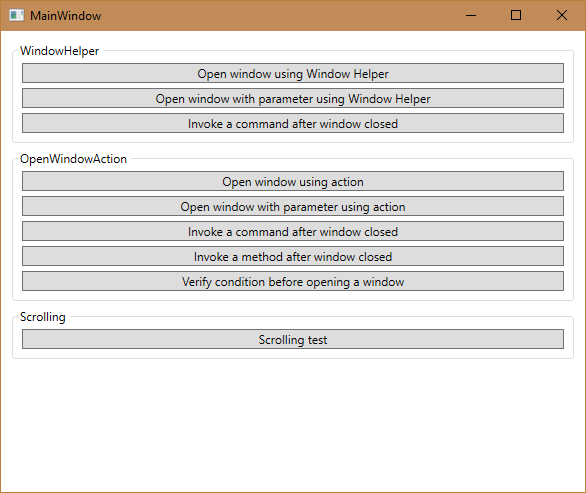
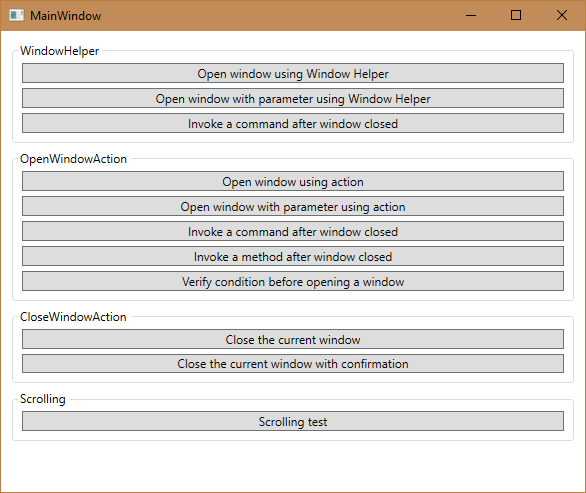
add actions

Changed region(s): [[0.0307, 0.6694, 0.9829, 0.7606], [0.0307, 0.7911, 0.9829, 0.8824], [0.0307, 0.6085, 0.215, 0.6694]]

diff --git a/Sample/WpfWindowToolkit.Test/Views/MainWindow.xaml b/Sample/WpfWindowToolkit.Test/Views/MainWindow.xaml
@@ -99,16 +99,27 @@
                     </Button>
                 </StackPanel>
             </GroupBox>
-            <GroupBox Margin="0,5,0,0" Header="Scrolling">
+            <GroupBox Margin="0,5,0,0" Header="CloseWindowAction">
                 <StackPanel Margin="5">
-                    <Button helpers:WindowHelper.OpenWindowType="{x:Type local:ScrollingTestWindow}" Content="Scrolling test" />
-                    <Button Margin="0,5,0,0" Content="ok">
+                    <Button Content="Close the current window">
                         <i:Interaction.Triggers>
                             <i:EventTrigger EventName="Click">
-                                <behaviors:CloseWindowAction ClosingCheckFunc="{Binding Abc}" />
+                                <behaviors:CloseWindowAction />
                             </i:EventTrigger>
                         </i:Interaction.Triggers>
                     </Button>
+                    <Button Margin="0,5,0,0" Content="Close the current window with confirmation">
+                        <i:Interaction.Triggers>
+                            <i:EventTrigger EventName="Click">
+                                <behaviors:CloseWindowAction ClosingCheckFunc="{Binding CheckBeforeCloseWindow}" />
+                            </i:EventTrigger>
+                        </i:Interaction.Triggers>
+                    </Button>
+                </StackPanel>
+            </GroupBox>
+            <GroupBox Margin="0,5,0,0" Header="Scrolling">
+                <StackPanel Margin="5">
+                    <Button helpers:WindowHelper.OpenWindowType="{x:Type local:ScrollingTestWindow}" Content="Scrolling test" />
                 </StackPanel>
             </GroupBox>
         </StackPanel>

diff --git a/Sample/WpfWindowToolkit.Test/ViewModels/MainViewModel.cs b/Sample/WpfWindowToolkit.Test/ViewModels/MainViewModel.cs
@@ -11,19 +11,18 @@ namespace WpfWindowToolkit.Test.ViewModels
         public MainViewModel()
         {
             WhenWindowClosedCommand = new RelayCommand(WhenWindowClosed);
-            TestAACommand = new RelayCommand<object>(TestAA);
             PreCheck = new Func<bool>(() =>
             {
                 return MessageBox.Show("really open a new window?", "Confirm", MessageBoxButton.OKCancel) == MessageBoxResult.OK;
             });
 
-            Abc = new Func<bool>(() =>
-             {
-                 return MessageBox.Show("really open a new window?", "Confirm", MessageBoxButton.OKCancel) == MessageBoxResult.OK;
-             });
+            CheckBeforeCloseWindow = new Func<bool>(() =>
+            {
+                return MessageBox.Show("really want to close the window?", "Confirm", MessageBoxButton.OKCancel) == MessageBoxResult.OK;
+            });
         }
 
-        public Func<bool> Abc { get; set; }
+        public Func<bool> CheckBeforeCloseWindow { get; set; }
 
         public Func<bool> PreCheck
 
@@ -32,26 +31,12 @@ namespace WpfWindowToolkit.Test.ViewModels
             set { Set(ref _preCheck, value); }
         }
 
+        public RelayCommand<object> TestAACommand { get; set; }
         public RelayCommand WhenWindowClosedCommand { get; set; }
 
         public void WhenWindowClosed()
         {
             MessageBox.Show("Window1 closed");
         }
-
-
-
-
-        public RelayCommand<object> TestAACommand { get; set; }
-
-        private void TestAA(object parameter)
-        {
-            var dialog = MessageBox.Show("dsfsdfsdfsdf", "dfsdf", MessageBoxButton.OKCancel, MessageBoxImage.Question);
-            if (dialog != MessageBoxResult.OK)
-            {
-
-            }
-        }
-
     }
 }

diff --git a/PraiseHim.Rejoice.WpfWindowToolkit/Behaviors/InvokeCommandAction.cs b/PraiseHim.Rejoice.WpfWindowToolkit/Behaviors/InvokeCommandAction.cs
@@ -1,0 +1,52 @@
+using System.Windows;
+using System.Windows.Input;
+using System.Windows.Interactivity;
+
+namespace PraiseHim.Rejoice.WpfWindowToolkit.Behaviors
+{
+    /// <summary>
+    /// An action to invoke a <see cref="ICommand"/>
+    /// </summary>
+    internal class InvokeCommandAction : TriggerAction<FrameworkElement>
+    {
+        public static readonly DependencyProperty CommandParameterProperty =
+            DependencyProperty.Register("CommandParameter", typeof(object), typeof(InvokeCommandAction), new PropertyMetadata(null));
+
+        public static readonly DependencyProperty CommandProperty =
+                    DependencyProperty.Register("Command", typeof(ICommand), typeof(InvokeCommandAction), new PropertyMetadata(null));
+
+        /// <summary>
+        /// Get or set the ICommand
+        /// </summary>
+        public ICommand Command
+        {
+            get { return (ICommand)GetValue(CommandProperty); }
+            set { SetValue(CommandProperty, value); }
+        }
+
+        /// <summary>
+        /// Get or set the parameter for the command
+        /// </summary>
+        public object CommandParameter
+        {
+            get { return (object)GetValue(CommandParameterProperty); }
+            set { SetValue(CommandParameterProperty, value); }
+        }
+
+        /// <summary>
+        /// Override Invoke method
+        /// </summary>
+        /// <param name="parameter"></param>
+        protected override void Invoke(object parameter)
+        {
+            if (CommandParameter != null)
+            {
+                Command?.Execute(CommandParameter);
+            }
+            else
+            {
+                Command?.Execute(parameter);
+            }
+        }
+    }
+}

diff --git a/PraiseHim.Rejoice.WpfWindowToolkit/Behaviors/CloseWindowAction.cs b/PraiseHim.Rejoice.WpfWindowToolkit/Behaviors/CloseWindowAction.cs
@@ -1,0 +1,47 @@
+using PraiseHim.Rejoice.WpfWindowToolkit.Extensions;
+using System;
+using System.Windows;
+using System.Windows.Interactivity;
+
+namespace PraiseHim.Rejoice.WpfWindowToolkit.Behaviors
+{
+    /// <summary>
+    /// An action to close a Window
+    /// </summary>
+    public class CloseWindowAction : TriggerAction<FrameworkElement>
+    {
+        /// <summary>
+        /// ClosingCheckFuncProperty
+        /// </summary>
+        public static readonly DependencyProperty ClosingCheckFuncProperty =
+            DependencyProperty.Register("ClosingCheckFunc", typeof(Func<bool>), typeof(CloseWindowAction), new PropertyMetadata(null));
+
+        /// <summary>
+        /// Get or set a function that returns a boolean value indicating whether the <see cref="Window"/> can be closed or not
+        /// </summary>
+        public Func<bool> ClosingCheckFunc
+        {
+            get { return (Func<bool>)GetValue(ClosingCheckFuncProperty); }
+            set { SetValue(ClosingCheckFuncProperty, value); }
+        }
+
+        /// <summary>
+        /// Override Invoke method
+        /// </summary>
+        /// <param name="parameter"></param>
+        protected override void Invoke(object parameter)
+        {
+            if (ClosingCheckFunc != null && !ClosingCheckFunc())
+            {
+                return;
+            }
+
+            var window = AssociatedObject.GetParent<Window>();
+
+            if (window != null)
+            {
+                window.Close();
+            }
+        }
+    }
+}

diff --git a/PraiseHim.Rejoice.WpfWindowToolkit/Helpers/WindowHelper.cs b/PraiseHim.Rejoice.WpfWindowToolkit/Helpers/WindowHelper.cs
@@ -67,7 +67,7 @@ namespace PraiseHim.Rejoice.WpfWindowToolkit.Helpers
         }
 
         /// <summary>
-        /// Set the parameter to be passed to the ViewModel of the new window. Notice, that view model need inherits <see cref="Base.ViewModelBaseData{T}"/>        
+        /// Set the parameter to be passed to the ViewModel of the new window. Notice, that view model need inherits <see cref="Base.ViewModelBaseData{T}"/>
         /// </summary>
         /// <param name="obj"></param>
         /// <returns></returns>
@@ -107,7 +107,7 @@ namespace PraiseHim.Rejoice.WpfWindowToolkit.Helpers
         }
 
         /// <summary>
-        /// Get the parameter to be passed to the ViewModel of the new window. Notice, that view model need inherits <see cref="Base.ViewModelBaseData{T}"/>        
+        /// Get the parameter to be passed to the ViewModel of the new window. Notice, that view model need inherits <see cref="Base.ViewModelBaseData{T}"/>
         /// </summary>
         /// <param name="obj"></param>
         /// <param name="value"></param>

diff --git a/PraiseHim.Rejoice.WpfWindowToolkit/Behaviors/CloseTabItemAction.cs b/PraiseHim.Rejoice.WpfWindowToolkit/Behaviors/CloseTabItemAction.cs
@@ -32,7 +32,7 @@ namespace PraiseHim.Rejoice.WpfWindowToolkit.Behaviors
             DependencyProperty.Register(nameof(TabItem), typeof(TabItem), typeof(CloseTabItemAction), new PropertyMetadata(default(TabItem)));
 
         /// <summary>
-        /// Get or set a function that returns a boolean value indicating whether the TabItem can be closed or not
+        /// Get or set a function that returns a boolean value indicating whether the <see cref="TabItem"/> can be closed or not
         /// </summary>
         public Func<bool> ClosingCheckFunc
         {

diff --git a/PraiseHim.Rejoice.WpfWindowToolkit/Behaviors/ScrollToTargetAction.cs b/PraiseHim.Rejoice.WpfWindowToolkit/Behaviors/ScrollToTargetAction.cs
@@ -41,7 +41,6 @@ namespace PraiseHim.Rejoice.WpfWindowToolkit.Behaviors
             set { SetValue(TargetElementProperty, value); }
         }
 
-
         /// <summary>
         /// Overrides Invoke method
         /// </summary>
